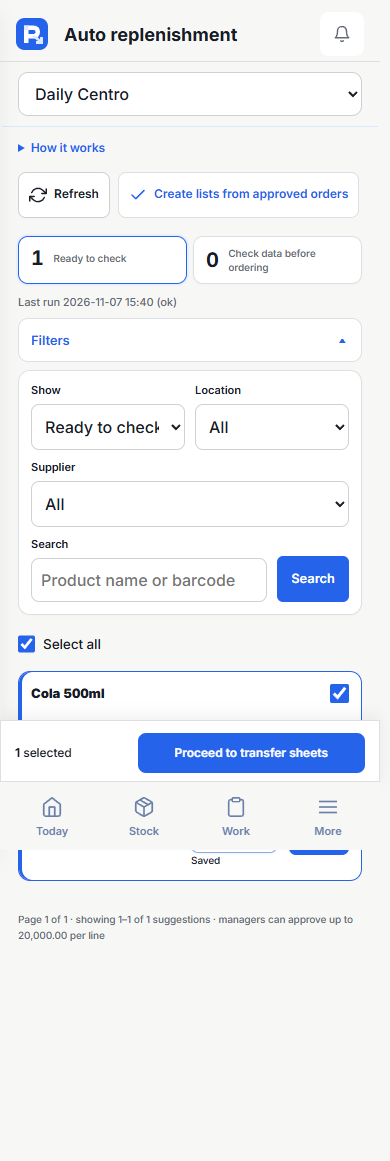
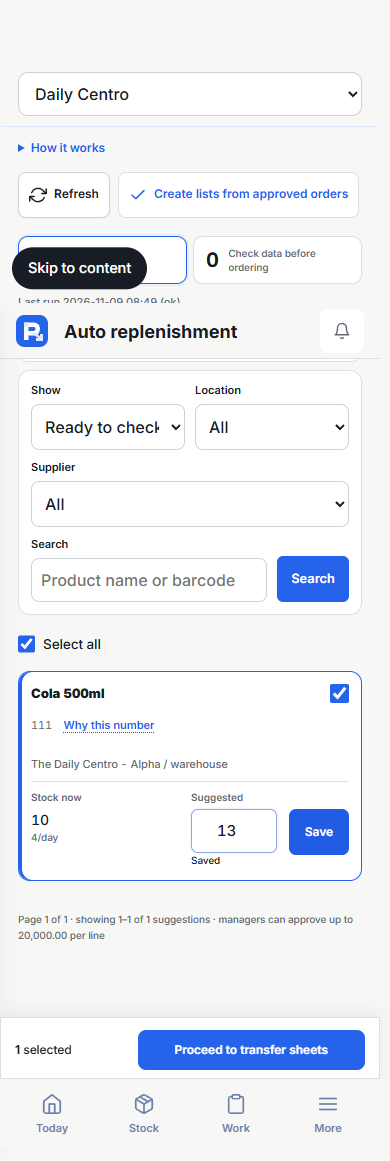
Auto replenishment: transfer sheet for stock, purchase order for the rest, both when mixed
- New proceed action splits each product into what the warehouse can send and what must be ordered
- Transfer sheets per store for the sendable part; a purchase order draft for the supplier for the rest
- Clear errors for missing supplier, several suppliers, another open order, missing price, permissions
- Dock button label follows the selection; Chinese strings added; tests added

diff --git a/app/web/templates/replenishment_sheet.html b/app/web/templates/replenishment_sheet.html
@@ -37,11 +37,11 @@
   {% if not sales_only %}<span class="rs-legend"><i class="u"></i>{{ t('Urgent (under 1 day)') }}<i class="w"></i>{{ t('Soon (1 to 3 days)') }}<i class="n"></i>{{ t('Normal') }}</span>{% endif %}
 </form>
 
-<form novalidate method="post" action="{{ '/replenishment/transfer-sheets' if can('transfer.sheet') else '/replenishment/bulk' }}" id="bulk">
+<form novalidate method="post" action="{{ '/replenishment/proceed' if (can('transfer.sheet') or can('po.create')) else '/replenishment/bulk' }}" id="bulk">
   <input type="hidden" name="csrf" value="{{ csrf }}"><input type="hidden" name="back" value="{{ here }}">
   <div class="rs-dock noprint" id="repl-selection" hidden>
     <div><b><span id="repl-selected-count">0</span> {{ t('selected') }}</b><small>PHP <span id="rs-selected-value">0.00</span> <span id="repl-save-hint" hidden>· {{ t('Save edited quantities before proceeding.') }}</span></small></div>
-    <button type="submit" id="repl-proceed">{{ t('Proceed to transfer sheets') if can('transfer.sheet') else t('Approve selected') }}</button>
+    <button type="submit" id="repl-proceed" data-sheet="{{ t('Create transfer sheet') }}" data-po="{{ t('Create purchase order') }}" data-both="{{ t('Create transfer sheet and purchase order') }}" data-default="{{ t('Proceed to transfer sheets') if can('transfer.sheet') else t('Approve selected') }}">{{ t('Proceed to transfer sheets') if can('transfer.sheet') else t('Approve selected') }}</button>
   </div>
 </form>
 
@@ -55,7 +55,7 @@
   </tr></thead>
   <tbody>
   {% for row in rows %}
-  <tr class="rs-row">
+  <tr class="rs-row" data-todo="{{ row.todo[0] }}">
     <td class="rs-cb">{% if row.selectable %}<input type="checkbox" class="rs-row-check" aria-label="{{ t('Select') }} {{ row.p.name }}">{% endif %}</td>
     <td class="rs-p"><button type="button" class="rs-phone-open" aria-expanded="false" data-open-label="{{ t('Review') }}" data-close-label="{{ t('Close') }}">{{ t('Review') }}</button><b>{{ row.p.name }}</b><button type="button" class="drawer-link rs-why" data-drawer="why-p{{ row.p.id }}" data-drawer-title="{{ row.p.name }} {{ t('— why this number') }}" title="{{ t('Why this number') }}" aria-label="{{ t('Why this number') }}"><svg viewBox="0 0 24 24" width="18" height="18" aria-hidden="true"><circle cx="12" cy="12" r="10" fill="none" stroke="currentColor" stroke-width="2"/><circle cx="12" cy="7.4" r="1.5" fill="currentColor"/><path d="M10.4 10.6h2.2v6.4h1.4v1.6h-4.2V17h1.4v-4.8h-.8z" fill="currentColor"/></svg></button><small>{{ row.p.barcode or '' }}{% if row.supplier %} · {{ row.supplier.name }}{% endif %}</small>
       <template id="why-p{{ row.p.id }}">{% for l in stores %}{% set x = row.cells.get(l.id) %}{% if x %}{% set r = x.r %}<h3 class="rs-ex-h">{{ short(l.name) }}</h3>{% include "_repl_explain.html" %}{% endif %}{% endfor %}</template></td>

diff --git a/app/web/static/replenishment_sheet.js b/app/web/static/replenishment_sheet.js
@@ -39,6 +39,10 @@
       document.getElementById('repl-selected-count').textContent = rows;
       document.getElementById('rs-selected-value').textContent = money.format(value);
       document.getElementById('repl-proceed').disabled = !selected.length || unsaved;
+      var btn = document.getElementById('repl-proceed'), kinds = {};
+      rowChecks.forEach(function (c) { if (c.checked) { var tr = c.closest('tr'); kinds[(tr && tr.dataset.todo) || 'send'] = true; } });
+      var wantsSheet = kinds.send || kinds.both, wantsPo = kinds.order || kinds.both;
+      if (btn.dataset.sheet) btn.textContent = wantsSheet && wantsPo ? btn.dataset.both : wantsPo ? btn.dataset.po : wantsSheet ? btn.dataset.sheet : btn.dataset.default;
       document.getElementById('repl-save-hint').hidden = !unsaved;
     }
     if (all) {

diff --git a/app/services/replenishment_sheets.py b/app/services/replenishment_sheets.py
@@ -1,12 +1,14 @@
 """Save draft suggestion quantities and create local transfer sheets per store."""
 import math
 
-from sqlalchemy import select, update
+from decimal import Decimal
+
+from sqlalchemy import func, select, update
 
 from .. import audit
-from ..models import Recommendation, TransferSheet
+from ..models import InventoryCurrent, Location, Product, Recommendation, Supplier, TransferSheet
 from ..timeutil import today_local
-from . import replenishment, transfer_sheets
+from . import po_drafts, replenishment, transfer_sheets
 
 
 def quantity(value):
@@ -83,3 +85,109 @@ def create_sheets(db, user, ids, location_ids):
                   after={"sheet_id": sheet.id, "quantity": r.approved_qty, "location_id": r.location_id})
     db.flush()
     return list(sheets.values())
+
+
+def plan(db, recs):
+    """For each product, what the warehouse can send and what is left to order from the supplier.
+    Returns {product_id: {"recs": [(rec, quantity, send)], "need", "send", "order"}}. The warehouse stock is shared between the stores in order."""
+    wh_ids = [l.id for l in db.scalars(select(Location).where(Location.type == "warehouse", Location.source == "storehub"))]
+    stock = {pid: float(n or 0) for pid, n in db.execute(select(InventoryCurrent.product_id, func.sum(InventoryCurrent.on_hand)).where(
+        InventoryCurrent.location_id.in_(wh_ids or [0])).group_by(InventoryCurrent.product_id))} if wh_ids else {}
+    out = {}
+    for r in sorted(recs, key=lambda x: (x.product_id, x.location_id)):
+        q = quantity(r.saved_qty if r.status == "pending" and r.saved_qty is not None else r.final_qty if r.status == "pending" else r.approved_qty)
+        item = out.setdefault(r.product_id, {"product": r.product, "recs": [], "need": 0.0})
+        item["recs"].append([r, q, 0.0])
+        item["need"] += q
+    for pid, item in out.items():
+        available = float(int(max(stock.get(pid, 0.0), 0.0))) if wh_ids and pid in stock else (item["need"] if not wh_ids else 0.0)
+        left = min(available, item["need"])
+        item["send"] = left
+        for row in item["recs"]:
+            row[2] = min(row[1], left)
+            left -= row[2]
+        item["order"] = item["need"] - item["send"]
+    return out
+
+
+def proceed(db, user, ids, location_ids, can_sheet, can_po):
+    """One action for the selected products: what the warehouse has goes on transfer sheets (one per store), what it does not have goes on a purchase order
+    to the product's supplier (the open purchase order of this person, delivered to the warehouse). Caller owns the transaction."""
+    ids = list(dict.fromkeys(ids))
+    if not ids:
+        raise replenishment.DecisionError("Select at least one product")
+    if len(ids) > 100:
+        raise replenishment.DecisionError("Select no more than 100 products at a time")
+    recs = list(db.scalars(select(Recommendation).where(Recommendation.id.in_(ids)).order_by(Recommendation.id)))
+    if len(recs) != len(ids) or any(r.location_id not in location_ids for r in recs):
+        raise replenishment.DecisionError("Some selected suggestions are unavailable. Reload the page.")
+    for r in recs:
+        if (r.business_date != today_local() or r.source_kind != "transfer" or r.location.type != "store"
+                or r.status not in ("pending", "approved", "modified") or r.batch_id or r.transfer_sheet_id):
+            raise replenishment.DecisionError("Some selected suggestions were already processed or need review. Reload the page.")
+    work = plan(db, recs)
+    needs_sheet = any(x["send"] > 0 for x in work.values())
+    needs_po = any(x["order"] > 0 for x in work.values())
+    if needs_sheet and not can_sheet:
+        raise replenishment.DecisionError("Your role does not allow transfer sheet creation")
+    if needs_po and not can_po:
+        raise replenishment.DecisionError("Your role does not allow creating purchase orders")
+    # the purchase order first: it is the part that can be refused (no supplier, another supplier already open)
+    draft, po_lines = None, 0
+    if needs_po:
+        order = {pid: x for pid, x in work.items() if x["order"] > 0}
+        sup_ids = {x["product"].supplier_id for x in order.values()}
+        missing = [x["product"].name for x in order.values() if x["product"].supplier_id is None]
+        if missing:
+            raise replenishment.DecisionError("No supplier is set for: " + ", ".join(missing[:3]) + (" ..." if len(missing) > 3 else "") + ". Set one, or order it from the purchase order page.")
+        if len(sup_ids) > 1:
+            raise replenishment.DecisionError("The products to order belong to more than one supplier. Pick one supplier in the filter and select its products.")
+        supplier = db.get(Supplier, next(iter(sup_ids)))
+        wh = transfer_sheets.warehouse(db)
+        if wh is None:
+            raise transfer_sheets.SheetError("No warehouse is set up in the system")
+        open_draft = po_drafts.current(db, user)
+        if open_draft is not None and open_draft.supplier_id != supplier.id:
+            raise replenishment.DecisionError("You already have an open purchase order for another supplier. Save or discard it first.")
+        from .. import settings_service as cfg
+        from . import order_documents as docs
+        draft = po_drafts.start(db, user, supplier.name, wh.id, [wh.id], docs.plain(Decimal(str(cfg.get(db, "product.vat_rate") or 12))))
+        last = po_drafts.last_prices(db, supplier.id)
+        for x in order.values():
+            prod = x["product"]
+            price = last[prod.id][0] if prod.id in last else (po_drafts.price6(Decimal(repr(float(prod.cost)))) if prod.cost else None)
+            if price is None:
+                raise replenishment.DecisionError(f"No price is known for {prod.name}. Add it on the purchase order page.")
+            po_drafts.add_line(db, draft, prod, str(int(x["order"])), price)
+            po_lines += 1
+    # then the transfer sheets, for what the warehouse can send
+    source = transfer_sheets.warehouse(db)
+    sheets = {}
+    for x in work.values():
+        for r, q, send in x["recs"]:
+            if send > 0:
+                if source is None:
+                    raise transfer_sheets.SheetError("No warehouse is set up in the system")
+                if r.location_id not in sheets:
+                    sheet = TransferSheet(source_location_id=source.id, target_location_id=r.location_id, created_by=user.id, note="Created from order suggestions")
+                    db.add(sheet)
+                    db.flush()
+                    sheets[r.location_id] = sheet
+                    audit.log(db, actor_type="human", actor_id=user.id, action="transfer_sheet.create", entity_type="transfer_sheet", entity_id=sheet.id,
+                              after={"source": source.name, "target": r.location.name, "origin": "replenishment"})
+                sheet = sheets[r.location_id]
+                claim = db.execute(update(Recommendation).where(Recommendation.id == r.id, Recommendation.status == r.status, Recommendation.transfer_sheet_id.is_(None),
+                                                                Recommendation.batch_id.is_(None)).values(transfer_sheet_id=sheet.id))
+                if claim.rowcount != 1:
+                    raise replenishment.DecisionError("Some selected suggestions were already processed or need review. Reload the page.")
+                db.refresh(r)
+            if r.status == "pending":
+                replenishment.decide(db, r, user, "approve", send if send > 0 else q)
+            if send > 0:
+                transfer_sheets.add_line(db, sheets[r.location_id], r.product, send)
+            r.status = "ordered"
+            audit.log(db, actor_type="human", actor_id=user.id, action="repl.proceed", entity_type="recommendation", entity_id=r.id,
+                      after={"sheet_id": r.transfer_sheet_id, "send": send, "to_order": q - send, "location_id": r.location_id,
+                             "po_draft_id": draft.id if draft is not None and q - send > 0 else None})
+    db.flush()
+    return {"sheets": list(sheets.values()), "draft": draft, "po_lines": po_lines}

diff --git a/tests/test_repl_proceed.py b/tests/test_repl_proceed.py
@@ -1,0 +1,61 @@
+"""Auto replenishment: what the warehouse has goes on a transfer sheet, what it does not have goes on a purchase order, both when the selection mixes them."""
+from sqlalchemy import select
+
+from app.models import InventoryCurrent, Location, PoDraft, Product, Recommendation, Supplier, TransferSheet
+from app.services import replenishment
+from tests.test_replenishment_sheet import _ready
+from tests.test_services import seeded
+from tests.test_web import add_user, client, csrf_of, login  # noqa: F401
+
+
+def _setup(client, session, sync, fake, warehouse_stock):
+    _ready(client, session, sync, fake)
+    prod = session.scalar(select(Product).where(Product.source == "storehub"))
+    sup = session.scalar(select(Supplier).where(Supplier.source == "storehub")) or Supplier(storehub_id="SUP1", name="Test Supplier", source="storehub")
+    session.add(sup); session.flush()
+    sup.active = True; sup.name_source = "manual"
+    prod.supplier_id = sup.id; prod.cost = 5.0
+    wh = session.scalar(select(Location).where(Location.type == "warehouse"))
+    row = session.scalar(select(InventoryCurrent).where(InventoryCurrent.location_id == wh.id, InventoryCurrent.product_id == prod.id))
+    row.on_hand = warehouse_stock
+    session.commit()
+    ids = [r.id for r in session.scalars(select(Recommendation).where(Recommendation.status == "pending", Recommendation.product_id == prod.id))]
+    return prod, ids
+
+
+def test_stock_in_the_warehouse_makes_only_a_transfer_sheet(client, session, sync, fake):
+    prod, ids = _setup(client, session, sync, fake, 1000)
+    r = client.post("/replenishment/proceed", data={"csrf": csrf_of(client, "/replenishment/sheet"), "ids": ids})
+    assert r.status_code == 303 and r.headers["location"].startswith("/transfer-sheets")
+    assert session.scalars(select(TransferSheet)).first() is not None and session.scalars(select(PoDraft)).first() is None
+
+
+def test_no_stock_makes_only_a_purchase_order(client, session, sync, fake):
+    prod, ids = _setup(client, session, sync, fake, 0)
+    r = client.post("/replenishment/proceed", data={"csrf": csrf_of(client, "/replenishment/sheet"), "ids": ids})
+    assert r.status_code == 303 and r.headers["location"].startswith("/purchase-orders/new")
+    d = session.scalars(select(PoDraft)).first()
+    assert d is not None and len(d.lines) == 1 and d.lines[0].product_id == prod.id and session.scalars(select(TransferSheet)).first() is None
+    need = sum(r.final_qty for r in session.scalars(select(Recommendation).where(Recommendation.id.in_(ids))))
+    assert float(d.lines[0].qty) == need
+
+
+def test_part_stock_makes_both_and_splits_the_quantity(client, session, sync, fake):
+    prod, ids = _setup(client, session, sync, fake, 5)
+    need = sum(r.final_qty for r in session.scalars(select(Recommendation).where(Recommendation.id.in_(ids))))
+    assert need > 5
+    r = client.post("/replenishment/proceed", data={"csrf": csrf_of(client, "/replenishment/sheet"), "ids": ids})
+    assert r.status_code == 303
+    sheets = session.scalars(select(TransferSheet)).all()
+    d = session.scalars(select(PoDraft)).first()
+    assert sheets and d is not None
+    sent = sum(l.qty for s in sheets for l in s.lines)
+    assert sent == 5 and float(d.lines[0].qty) == need - 5
+
+
+def test_a_product_without_a_supplier_cannot_be_ordered(client, session, sync, fake):
+    prod, ids = _setup(client, session, sync, fake, 0)
+    prod.supplier_id = None; session.commit()
+    r = client.post("/replenishment/proceed", data={"csrf": csrf_of(client, "/replenishment/sheet"), "ids": ids})
+    assert r.status_code == 303 and "err=" in r.headers["location"]
+    assert session.scalars(select(PoDraft)).first() is None and session.scalars(select(TransferSheet)).first() is None

diff --git a/app/web/routes_stock.py b/app/web/routes_stock.py
@@ -16,7 +16,7 @@ from .. import audit
 from .. import settings_service as cfg
 from ..models import (Employee, InventoryCurrent, Location, OrderBatch, Payment, Product, PurchaseOrder, Recommendation, ReplRun, SalesDay, SalesDayProduct,
                       SalesLine, SalesTx, Supplier)
-from ..services import dq, freshness, purchasing, receiving, replenishment, replenishment_sheets, transfer_sheets, transfers
+from ..services import dq, freshness, po_drafts, purchasing, receiving, replenishment, replenishment_sheets, transfer_sheets, transfers
 from ..timeutil import fmt_local, now_utc, today_local, tz, to_local
 from .deps import Ctx, need, redirect, render, parse_float
 
@@ -936,6 +936,28 @@ def replenishment_transfer_sheets(ids: list[int] = Form(default=[]), csrf: str =
     names = ", ".join(f"TS-{s.id:05d}" for s in sheets)
     target = f"/transfer-sheets/{sheets[0].id}" if len(sheets) == 1 else "/transfer-sheets"
     return redirect(target, ok=c.t("Transfer sheets created") + ": " + names)
+
+
+@router.post("/replenishment/proceed")
+def replenishment_proceed(ids: list[int] = Form(default=[]), csrf: str = Form(""), c: Ctx = Depends(need("repl.decide"))):
+    """What the warehouse has goes on transfer sheets; what it does not have goes on a purchase order to the supplier."""
+    c.check_csrf(csrf)
+    try:
+        out = replenishment_sheets.proceed(c.db, c.user, ids, c.location_ids, c.can("transfer.sheet"), c.can("po.create"))
+        c.db.commit()
+    except (replenishment.DecisionError, transfer_sheets.SheetError, po_drafts.PoError) as e:
+        c.db.rollback()
+        return redirect("/replenishment", err=c.t(str(e)))
+    sheets, draft = out["sheets"], out["draft"]
+    parts = []
+    if sheets:
+        parts.append(c.t("Transfer sheets created") + ": " + ", ".join(f"TS-{x.id:05d}" for x in sheets))
+    if draft is not None:
+        parts.append(c.t("Purchase order started") + f" ({draft.supplier.name}, {out['po_lines']} " + c.t("products") + ")")
+    if draft is not None:
+        return redirect("/purchase-orders/new", ok=" · ".join(parts))
+    target = f"/transfer-sheets/{sheets[0].id}" if len(sheets) == 1 else "/transfer-sheets"
+    return redirect(target, ok=" · ".join(parts))
 
 
 @router.post("/replenishment/bulk")
